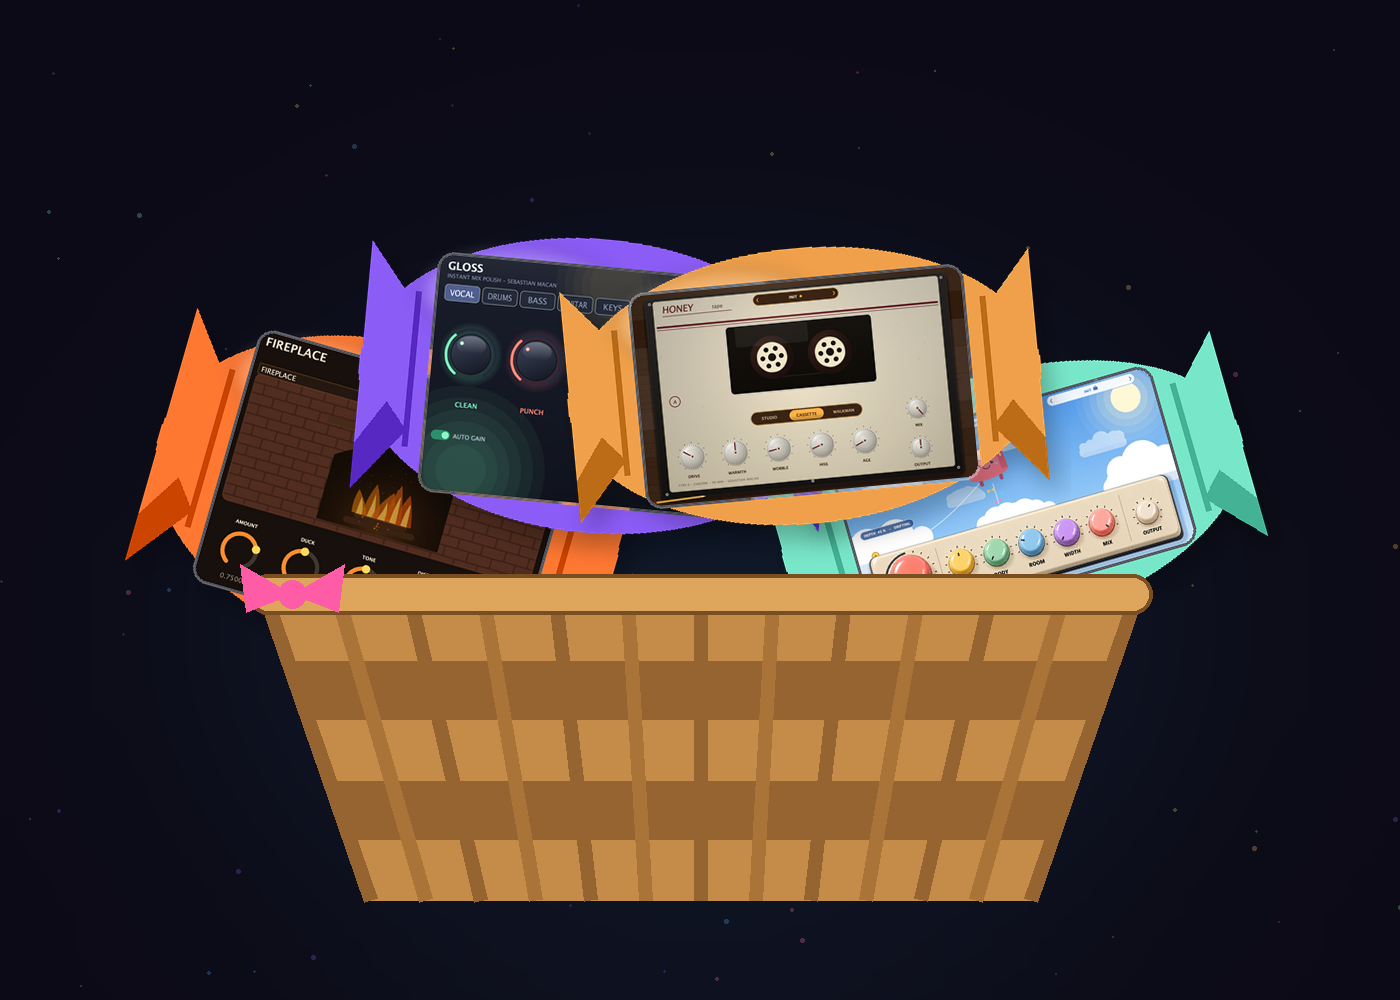
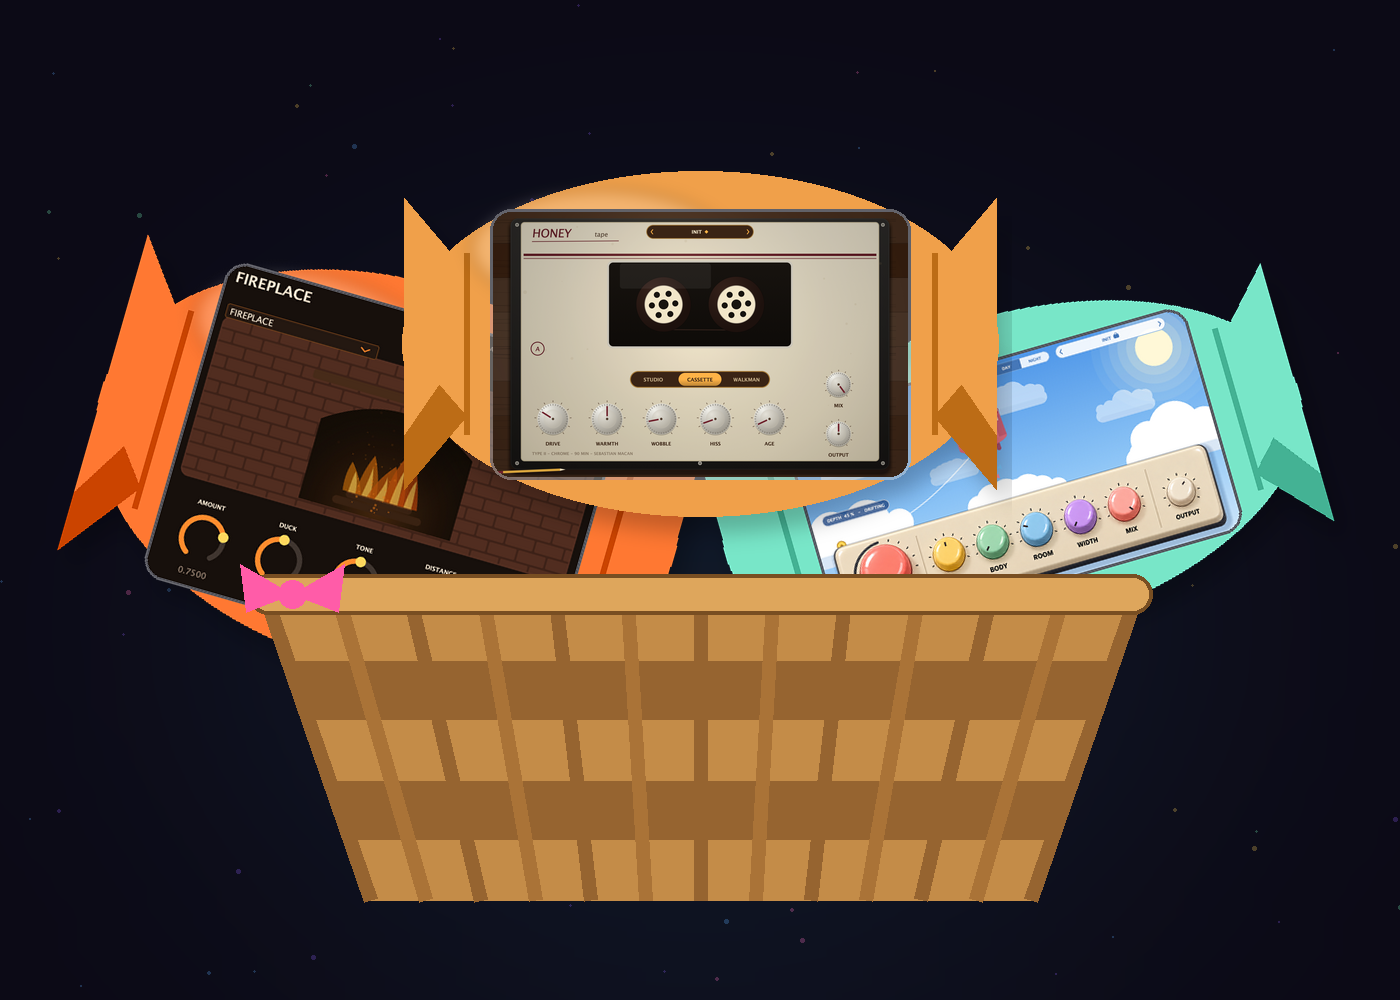
Gloss off the store (toy-store direction): card, page, cart, pricing, sitemap removed; Studio Tools Basket = Fireplace, Honey, Pocket (worth $45, stays $35); 13 plugins

Changed region(s): [[0.0307, 0.155, 0.9521, 0.651]]

diff --git a/index.html b/index.html
@@ -9,8 +9,8 @@
 <link rel="icon" type="image/png" sizes="192x192" href="/icons/candy-192.png">
 <link rel="apple-touch-icon" sizes="180x180" href="/icons/candy-180.png">
 <meta name="theme-color" content="#000000">
-<title>Sebastian Macan - Audio Plugins | 14 Plugins + 11 MIDI Packs</title>
-<meta name="description" content="Creative audio plugins (VST3/AU, macOS) + 4796 MIDI chord progressions incl. Hitmaker Chords and the Modal Series: Biome, Chordsmith, Fireplace, Gloss, Jelly, Orbit, Warble.">
+<title>Sebastian Macan - Audio Plugins | 13 Plugins + 11 MIDI Packs</title>
+<meta name="description" content="Creative audio plugins (VST3/AU, macOS) + 4796 MIDI chord progressions incl. Hitmaker Chords and the Modal Series: Biome, Chordsmith, Fireplace, Jelly, Orbit, Warble.">
 <style>
   :root { --bg:#0a0a0c; --card:#141418; --txt:#f2f2f4; --dim:#8a8a94; --line:#222228; }
   * { margin:0; padding:0; box-sizing:border-box; }
@@ -99,7 +99,6 @@
   .twitch { --g1:#3cdcff; --g2:#9aefff; --glow:#3cdcff; --shadow:rgba(60,220,255,.30); }
   .pocket { --g1:#4f97e8; --g2:#e7d6bb; --glow:#4f97e8; --shadow:rgba(79,151,232,.30); }
   .fireplace { --g1:#ff7a2f; --g2:#ffd27a; --glow:#ff7a2f; --shadow:rgba(255,122,47,.28); }
-  .gloss { --g1:#8b6bff; --g2:#3df0a8; --glow:#8b6bff; --shadow:rgba(139,107,255,.26); }
   .biome  { --g1:#3ecf6e; --g2:#5ad9d0; --glow:#3ecf6e; --shadow:rgba(62,207,110,.26); }
   .hitmaker { --g1:#d9151f; --g2:#7a0a12; --glow:#d9151f; --shadow:rgba(217,21,31,.30); }
   .clubchords { --g1:#9aa0a8; --g2:#3a3d42; --glow:#c9ced6; --shadow:rgba(154,160,168,.22); }
@@ -279,9 +278,9 @@
   </header>
 
   <section class="hero">
-    <div class="badge">14 Plugins + 11 MIDI Packs · VST3 + AU · macOS + Windows</div>
+    <div class="badge">13 Plugins + 11 MIDI Packs · VST3 + AU · macOS + Windows</div>
     <h1>A whole <em>candy store</em> of sound.</h1>
-    <p class="sub">Fourteen plugins and 4796 MIDI chord progressions for producers who crave something unique. Grab a flavor, drop it in your DAW, create something sweet.</p>
+    <p class="sub">Thirteen plugins and 4796 MIDI chord progressions for producers who crave something unique. Grab a flavor, drop it in your DAW, create something sweet.</p>
   </section>
 
   <div class="sect-title" id="instruments">Instruments</div>
@@ -470,18 +469,6 @@
       <a class="more" href="orbit.html">See how it works &rarr;</a>
       <div class="meta">v1.0.1 · VST3 + AU effect · macOS + Windows</div>
     </div>
-    <div class="card gloss">
-      <span class="new">NEW</span>
-      <div class="kind">Instant Mix Polish</div>
-      <h2 style="background:linear-gradient(135deg,#8b6bff,#3df0a8);-webkit-background-clip:text;background-clip:text;-webkit-text-fill-color:transparent;">GLOSS</h2>
-      <p class="tag">Mixes that sit right. Four knobs.</p>
-      <p class="desc">CLEAN scoops the mud, PUNCH tightens the hit, GLOW adds expensive top end, WIDTH opens the stereo. Drop it on any track and turn until it shines.</p>
-      <div class="shot"><video autoplay muted loop playsinline preload="metadata" poster="img/ui/gloss.png?v=1.0"><source src="https://video.sebastianmacan.com/img/video/gloss_ui_loop.mp4?v=1.0" type="video/mp4"></video></div>
-      <span class="dl buy" style="background:linear-gradient(135deg,#8b6bff,#3df0a8);box-shadow:0 6px 28px rgba(139,107,255,.26);" role="button" tabindex="0" data-cart-buy="gloss">Buy Gloss &middot; $19</span>
-      <div class="cartrow"><span class="cartbtn add" role="button" tabindex="0" data-cart-add="gloss">Add to Cart</span><span class="cartbtn buy" role="button" tabindex="0" data-cart-buy="gloss">Buy Now</span></div>
-      <a class="more" href="gloss.html">See how it works &rarr;</a>
-      <div class="meta">v1.0.1 · VST3 + AU effect · macOS + Windows</div>
-    </div>
   </div>
 
   <div class="sect-title" id="midi">MIDI</div>
@@ -626,10 +613,10 @@
       </div>
     </a>
     <a class="bundle studio-b" href="basket-studio.html">
-      <img src="img/bundles/studio_bundle.png?v=8" alt="Studio Tools Basket: Fireplace, Gloss, Honey and Pocket as wrapped candy in a basket" loading="lazy">
+      <img src="img/bundles/studio_bundle.png?v=9" alt="Studio Tools Basket: Fireplace, Honey and Pocket as wrapped candy in a basket" loading="lazy">
       <div class="binner">
         <h3>STUDIO TOOLS BASKET</h3>
-        <p class="desc">Fireplace, Gloss, Honey and Pocket. A fire under the beat, a shine on the mix, a cassette to print it to and a depth machine that sits the whole top kit down. The last four plugins you touch before you hit export.</p>
+        <p class="desc">Fireplace, Honey and Pocket. A fire under the beat, a cassette to print it to and a depth machine that sits the whole top kit down. The last three plugins you touch before you hit export.</p>
         <div class="price">$35</div>
         <span class="dl bopen" style="background:linear-gradient(135deg,#f5a623,#60a5fa);">Open the basket</span>
         <div class="cartrow"><span class="cartbtn add" role="button" tabindex="0" data-cart-add="studiobasket">Add to Cart</span><span class="cartbtn buy" role="button" tabindex="0" data-cart-buy="studiobasket">Buy Now</span></div>
@@ -765,8 +752,8 @@
     <div style="width:100%;margin-top:10px;font-size:12px;">Guides: <a href="learn/biome.html">Granular synthesis</a> &middot; <a href="learn/chordsmith.html">Chord generators</a> &middot; <a href="learn/jelly.html">Wobble FX</a> &middot; <a href="learn/orbit.html">3D auto-pan</a></div>
   </footer>
 </div>
-<script src="js/cart.js?v=split1" defer></script>
-<script src="js/email-gate.js?v=free5" defer></script>
+<script src="js/cart.js?v=toy1" defer></script>
+<script src="js/email-gate.js?v=toy1" defer></script>
 <script>
 // Whole plugin card is clickable -> its "See how it works" page.
 // Real links/buttons inside the card (Download, See how it works) keep working normally.

diff --git a/basket-studio.html b/basket-studio.html
@@ -10,7 +10,7 @@
 <link rel="icon" type="image/png" sizes="192x192" href="/icons/candy-192.png">
 <link rel="apple-touch-icon" sizes="180x180" href="/icons/candy-180.png">
 <meta name="theme-color" content="#000000">
-<meta name="description" content="Fireplace, Gloss, Honey and Pocket. The Sebastian Macan finishing tools, one basket, VST3 + AU.">
+<meta name="description" content="Fireplace, Honey and Pocket. The Sebastian Macan finishing tools, one basket, VST3 + AU.">
 <meta name="robots" content="index,follow">
 <style>
   :root { --bg:#0a0a0c; --card:#141418; --txt:#f2f2f4; --dim:#8a8a94; --line:#222228; --g1:#f5a623; --g2:#60a5fa; }
@@ -75,14 +75,14 @@
     <div class="kind">Candy Basket</div>
     <h1>STUDIO TOOLS BASKET</h1>
     <p class="tag">A fire under the beat, a shine on the mix, a cassette to print it to and a depth machine that sits the whole top kit down.</p>
-    <img class="bimg" src="img/bundles/studio_bundle.png?v=8" alt="STUDIO TOOLS BASKET basket art">
+    <img class="bimg" src="img/bundles/studio_bundle.png?v=9" alt="STUDIO TOOLS BASKET basket art">
     <div class="pricebar"><span class="big">$35</span></div>
-    <div class="meta">4 plugins · VST3 + AU · macOS + Windows</div>
+    <div class="meta">3 plugins · VST3 + AU · macOS + Windows</div>
     <div class="cta" style="margin-top:22px;"><span class="dl buy" role="button" tabindex="0" data-cart-buy="studiobasket">Buy Studio Tools Basket &middot; $35</span><div class="cartrow" style="justify-content:center;"><span class="cartbtn add" role="button" tabindex="0" data-cart-add="studiobasket">Add to Cart</span><span class="cartbtn buy" role="button" tabindex="0" data-cart-buy="studiobasket">Buy Now</span></div></div>
   </section>
 
   <h2>What's in the basket</h2>
-  <p class="sub">Fireplace lays a living room of atmosphere under the beat. Honey puts the chords on smooth tape. Gloss makes every track sit right. Pocket puts the snare in the mix instead of on top of it. From rough idea to finished mix, one basket. Every item below is sold on its own too, or take the whole basket at once.</p>
+  <p class="sub">Fireplace lays a living room of atmosphere under the beat. Honey puts the chords on smooth tape. Pocket puts the snare in the mix instead of on top of it. From rough idea to finished mix, one basket. Every item below is sold on its own too, or take the whole basket at once.</p>
     <div class="item">
       <div class="iinfo">
         <div class="ikind">Ambience</div>
@@ -93,18 +93,6 @@
       <div class="iact">
         <div class="iprice">$15</div>
         <span class="dl buy idl" role="button" tabindex="0" data-cart-buy="fireplace">Buy Fireplace &middot; $15</span>
-      </div>
-    </div>
-    <div class="item">
-      <div class="iinfo">
-        <div class="ikind">Instant Mix Polish</div>
-        <div class="iname">Gloss</div>
-        <p class="itag">Four knobs that make tracks sit right in the mix, fast.</p>
-        <a class="rowlink" href="gloss.html">See how it works &rarr;</a>
-      </div>
-      <div class="iact">
-        <div class="iprice">$19</div>
-        <span class="dl buy idl" role="button" tabindex="0" data-cart-buy="gloss">Buy Gloss &middot; $19</span>
       </div>
     </div>
     <div class="item">
@@ -132,10 +120,10 @@
       </div>
     </div>
 
-  <div class="cta"><span class="dl buy" role="button" tabindex="0" data-cart-buy="studiobasket">Buy Studio Tools Basket &middot; $35</span><div class="cartrow" style="justify-content:center;"><span class="cartbtn add" role="button" tabindex="0" data-cart-add="studiobasket">Add to Cart</span><span class="cartbtn buy" role="button" tabindex="0" data-cart-buy="studiobasket">Buy Now</span></div><div class="meta">4 installers in one email. Download, install, done.</div></div>
+  <div class="cta"><span class="dl buy" role="button" tabindex="0" data-cart-buy="studiobasket">Buy Studio Tools Basket &middot; $35</span><div class="cartrow" style="justify-content:center;"><span class="cartbtn add" role="button" tabindex="0" data-cart-add="studiobasket">Add to Cart</span><span class="cartbtn buy" role="button" tabindex="0" data-cart-buy="studiobasket">Buy Now</span></div><div class="meta">3 installers in one email. Download, install, done.</div></div>
 
   <div class="mathbox">
-    Bought one by one this basket adds up to <b>$64</b>. As a basket it's <b>$35</b>, one-time. 4 items, zero catches.
+    Bought one by one this basket adds up to <b>$45</b>. As a basket it's <b>$35</b>, one-time. 3 items, zero catches.
   </div>
 
   <footer>
@@ -143,7 +131,7 @@
     <div><a href="pricing.html">Pricing</a> &middot; <a href="terms.html">Terms</a> &middot; <a href="refunds.html">Refunds</a> &middot; <a href="privacy.html">Privacy</a> &middot; <a href="https://dl.sebastianmacan.com/library">Library</a> · <a href="downloads.html">Re-download</a></div>
   </footer>
 </div>
-<script src="js/cart.js?v=split1" defer></script>
-<script src="js/email-gate.js?v=free5" defer></script>
+<script src="js/cart.js?v=toy1" defer></script>
+<script src="js/email-gate.js?v=toy1" defer></script>
 </body>
 </html>

diff --git a/pricing.html b/pricing.html
@@ -63,7 +63,6 @@
     <tr><td>Orbit</td><td>3D auto-pan</td><td class="price">FREE forever</td></tr>
     <tr><td>Honey</td><td>Tape machine, real tape physics</td><td class="price">$15</td></tr>
     <tr><td>Fireplace</td><td>Cozy ambience machine: fire, real forest rain, vinyl attic, tape room</td><td class="price">$15</td></tr>
-      <tr><td>Gloss</td><td>Instant mix polish</td><td class="price">$19</td></tr>
 <tr><td>Warble</td><td>Bird pitch-wobble effect</td><td class="price">FREE forever</td></tr>
     <tr><td>Chop</td><td>Free rhythm chopper</td><td class="price">FREE forever</td></tr>
     <tr><td>Smear</td><td>Granular smear into a plate reverb</td><td class="price">$15</td></tr>
@@ -87,7 +86,7 @@
   <table>
     <tr><th>Bundle</th><th>Contents</th><th>Price</th></tr>
     <tr><td>Instruments Basket</td><td>Biome and Chordsmith (worth $78)</td><td class="price">$59</td></tr>
-    <tr><td>Studio Tools Basket</td><td>Fireplace, Gloss, Honey and Pocket (worth $64)</td><td class="price">$35</td></tr>
+    <tr><td>Studio Tools Basket</td><td>Fireplace, Honey and Pocket (worth $45)</td><td class="price">$35</td></tr>
     <tr><td>Chord Basket</td><td>Chordsmith + every MIDI pack: Hitmaker Chords, Tears, Club, Soul and all 7 mode packs, 4796 progressions (worth $139)</td><td class="price">$69</td></tr>
     <tr><td>MIDI Mega Basket</td><td>Every MIDI pack: Hitmaker Chords + Tears + Club + Soul + all 7 mode packs, 4796 progressions (worth $100)</td><td class="price">$49</td></tr>
     <tr><td>All 7 Modes Basket</td><td>The whole Modal Series, 336 progressions (worth $35)</td><td class="price">$12</td></tr>
@@ -102,6 +101,6 @@
     <div><a href="/pricing.html">Pricing</a> · <a href="/terms.html">Terms</a> · <a href="/refunds.html">Refunds</a> · <a href="/privacy.html">Privacy</a> · <a href="/downloads.html">Re-download</a></div>
   </footer>
 </div>
-<script src="js/cart.js?v=split1" defer></script>
+<script src="js/cart.js?v=toy1" defer></script>
 </body>
 </html>

diff --git a/js/cart.js b/js/cart.js
@@ -34,7 +34,6 @@
     twitch:        { name: 'Twitch',                cents: 1500, priceId: 'pri_01m6zc3ar61pqdse2fhx42gnd6' },
     pocket:        { name: 'Pocket',                 cents: 1500, priceId: 'pri_01m5jmgg27ch339v1v5gkr6g7a' },
     fireplace:     { name: 'Fireplace',              cents: 1500, priceId: 'pri_01m1nckxvaekbaccghkvvh4zva' },
-    gloss:         { name: 'Gloss',                  cents: 1900, priceId: 'pri_01m09knjab3bppsqctg98j5s3b' },
     /* MIDI chord packs */
     hitmaker:      { name: 'Hitmaker Chords',        cents: 2500, priceId: 'pri_01m2ckt8h7agqfkge6ayanjj2x' },
     hitmakercomplete: { name: 'Hitmaker Chords',     cents: 2500, priceId: 'pri_01m2ckt8h7agqfkge6ayanjj2x' }, /* alias for stale cached HTML */
@@ -65,7 +64,7 @@
      it belongs to here (then reprice the basket in Paddle if the roster changed). */
   var BASKETS = {
     instrumentsbasket: { page: 'basket-instruments.html', items: ['biome', 'magician'] },
-    studiobasket:      { page: 'basket-studio.html',      items: ['fireplace', 'gloss', 'honey', 'pocket'] },
+    studiobasket:      { page: 'basket-studio.html',      items: ['fireplace', 'honey', 'pocket'] },
     lofibasket:        { page: 'basket-lofi.html',        items: ['fireplace', 'honey'] },
     chordbasket:       { page: 'basket-chord.html',       items: ['magician', 'hitmaker', 'tears', 'clubchords', 'soulchords', 'ionian', 'dorian', 'phrygian', 'lydian', 'mixolydian', 'aeolian', 'locrian'] },
     midimega:          { page: 'basket-midi.html',        items: ['hitmaker', 'tears', 'clubchords', 'soulchords', 'ionian', 'dorian', 'phrygian', 'lydian', 'mixolydian', 'aeolian', 'locrian'] },

diff --git a/_tpl/product.html b/_tpl/product.html
@@ -174,8 +174,8 @@
     <div><a href="pricing.html">Pricing</a> &middot; <a href="terms.html">Terms</a> &middot; <a href="refunds.html">Refunds</a> &middot; <a href="privacy.html">Privacy</a> &middot; <a href="https://dl.sebastianmacan.com/library">Library</a> · <a href="downloads.html">Re-download</a></div>
   </footer>
 </div>
-<script src="js/cart.js?v=split1" defer></script>
-<script src="js/email-gate.js?v=free5" defer></script>
+<script src="js/cart.js?v=toy1" defer></script>
+<script src="js/email-gate.js?v=toy1" defer></script>
 
 <script>
     document.querySelectorAll('.studio').forEach(function(w){var v=w.querySelector('video'),p=w.querySelector('.play');

diff --git a/pocket.html b/pocket.html
@@ -174,8 +174,8 @@
     <div><a href="pricing.html">Pricing</a> &middot; <a href="terms.html">Terms</a> &middot; <a href="refunds.html">Refunds</a> &middot; <a href="privacy.html">Privacy</a> &middot; <a href="https://dl.sebastianmacan.com/library">Library</a> · <a href="downloads.html">Re-download</a></div>
   </footer>
 </div>
-<script src="js/cart.js?v=split1" defer></script>
-<script src="js/email-gate.js?v=free5" defer></script>
+<script src="js/cart.js?v=toy1" defer></script>
+<script src="js/email-gate.js?v=toy1" defer></script>
 
 <script>
     document.querySelectorAll('.studio').forEach(function(w){var v=w.querySelector('video'),p=w.querySelector('.play');

diff --git a/smear.html b/smear.html
@@ -174,8 +174,8 @@
     <div><a href="pricing.html">Pricing</a> &middot; <a href="terms.html">Terms</a> &middot; <a href="refunds.html">Refunds</a> &middot; <a href="privacy.html">Privacy</a> &middot; <a href="https://dl.sebastianmacan.com/library">Library</a> · <a href="downloads.html">Re-download</a></div>
   </footer>
 </div>
-<script src="js/cart.js?v=split1" defer></script>
-<script src="js/email-gate.js?v=free5" defer></script>
+<script src="js/cart.js?v=toy1" defer></script>
+<script src="js/email-gate.js?v=toy1" defer></script>
 
 <script>
     document.querySelectorAll('.studio').forEach(function(w){var v=w.querySelector('video'),p=w.querySelector('.play');

diff --git a/stutter.html b/stutter.html
@@ -176,8 +176,8 @@
     <div><a href="pricing.html">Pricing</a> &middot; <a href="terms.html">Terms</a> &middot; <a href="refunds.html">Refunds</a> &middot; <a href="privacy.html">Privacy</a> &middot; <a href="https://dl.sebastianmacan.com/library">Library</a> · <a href="downloads.html">Re-download</a></div>
   </footer>
 </div>
-<script src="js/cart.js?v=split1" defer></script>
-<script src="js/email-gate.js?v=free5" defer></script>
+<script src="js/cart.js?v=toy1" defer></script>
+<script src="js/email-gate.js?v=toy1" defer></script>
 
 <script>
     document.querySelectorAll('.studio').forEach(function(w){var v=w.querySelector('video'),p=w.querySelector('.play');

diff --git a/twitch.html b/twitch.html
@@ -176,8 +176,8 @@
     <div><a href="pricing.html">Pricing</a> &middot; <a href="terms.html">Terms</a> &middot; <a href="refunds.html">Refunds</a> &middot; <a href="privacy.html">Privacy</a> &middot; <a href="https://dl.sebastianmacan.com/library">Library</a> · <a href="downloads.html">Re-download</a></div>
   </footer>
 </div>
-<script src="js/cart.js?v=split1" defer></script>
-<script src="js/email-gate.js?v=free5" defer></script>
+<script src="js/cart.js?v=toy1" defer></script>
+<script src="js/email-gate.js?v=toy1" defer></script>
 
 <script>
     document.querySelectorAll('.studio').forEach(function(w){var v=w.querySelector('video'),p=w.querySelector('.play');

diff --git a/biome.html b/biome.html
@@ -281,8 +281,8 @@
     <div><a href="pricing.html">Pricing</a> &middot; <a href="terms.html">Terms</a> &middot; <a href="refunds.html">Refunds</a> &middot; <a href="privacy.html">Privacy</a> &middot; <a href="https://dl.sebastianmacan.com/library">Library</a> · <a href="downloads.html">Re-download</a></div>
   </footer>
 </div>
-<script src="js/cart.js?v=split1" defer></script>
-<script src="js/email-gate.js?v=free5" defer></script>
+<script src="js/cart.js?v=toy1" defer></script>
+<script src="js/email-gate.js?v=toy1" defer></script>
 <script src="js/madewith.js?v=r1101"></script>
 <script src="js/loops.js?v=1" defer></script>
 </body>

diff --git a/fireplace.html b/fireplace.html
@@ -277,8 +277,8 @@
     <p>&copy; 2026 Aluetion, LLC &middot; <a href="/">sebastianmacan.com</a> &middot; <a href="mailto:hello@sebastianmacan.com">hello@sebastianmacan.com</a> &middot; <a href="https://dl.sebastianmacan.com/library">Library</a> · <a href="downloads.html">Re-download</a></p>
   </footer>
 </div>
-<script src="js/cart.js?v=split1" defer></script>
-<script src="js/email-gate.js?v=free5" defer></script>
+<script src="js/cart.js?v=toy1" defer></script>
+<script src="js/email-gate.js?v=toy1" defer></script>
 <script src="js/loops.js?v=1" defer></script>
 <script src="js/hearthfire.js?v=2"></script>
 </body>

diff --git a/honey.html b/honey.html
@@ -183,8 +183,8 @@
     <div><a href="pricing.html">Pricing</a> &middot; <a href="terms.html">Terms</a> &middot; <a href="refunds.html">Refunds</a> &middot; <a href="privacy.html">Privacy</a> &middot; <a href="https://dl.sebastianmacan.com/library">Library</a> · <a href="downloads.html">Re-download</a></div>
   </footer>
 </div>
-<script src="js/cart.js?v=split1" defer></script>
-<script src="js/email-gate.js?v=free5" defer></script>
+<script src="js/cart.js?v=toy1" defer></script>
+<script src="js/email-gate.js?v=toy1" defer></script>
 <script src="js/loops.js?v=1" defer></script>
 </body>
 </html>
